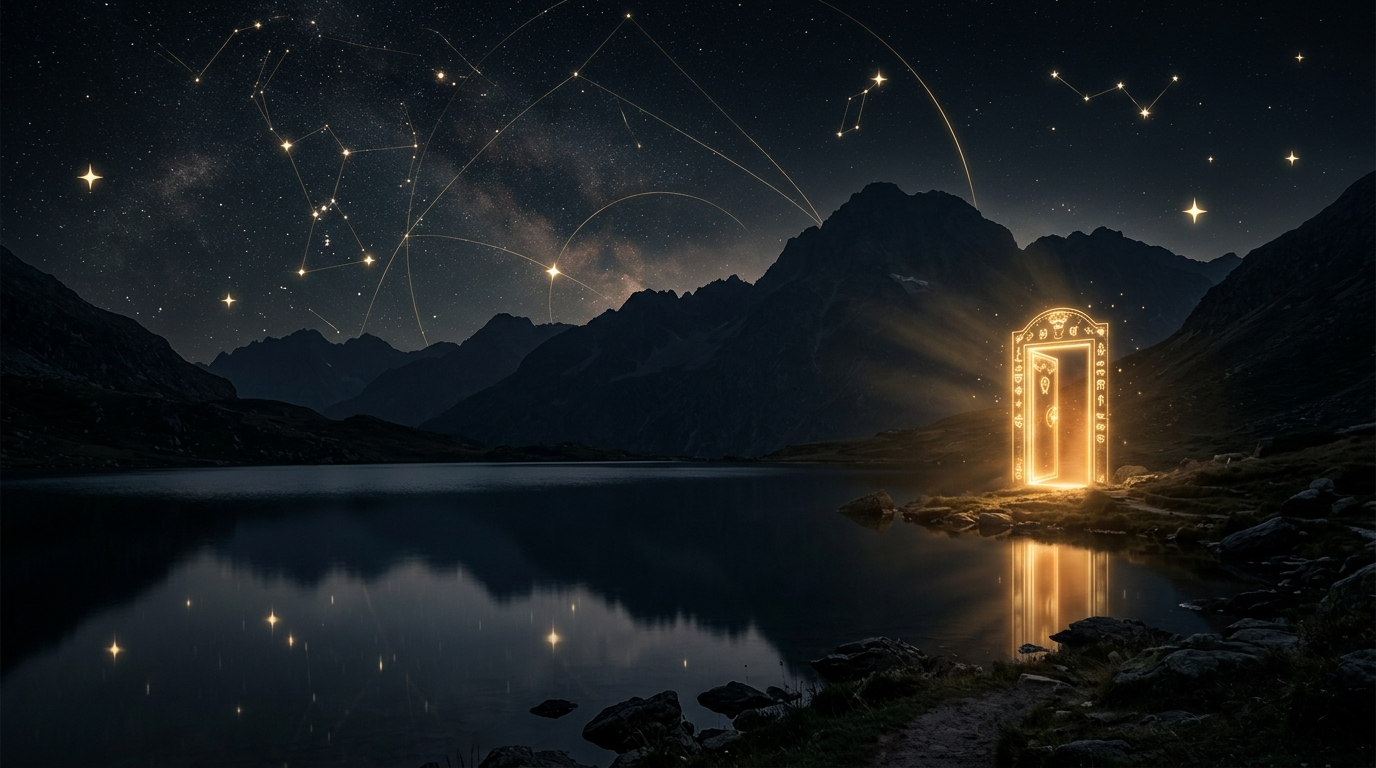
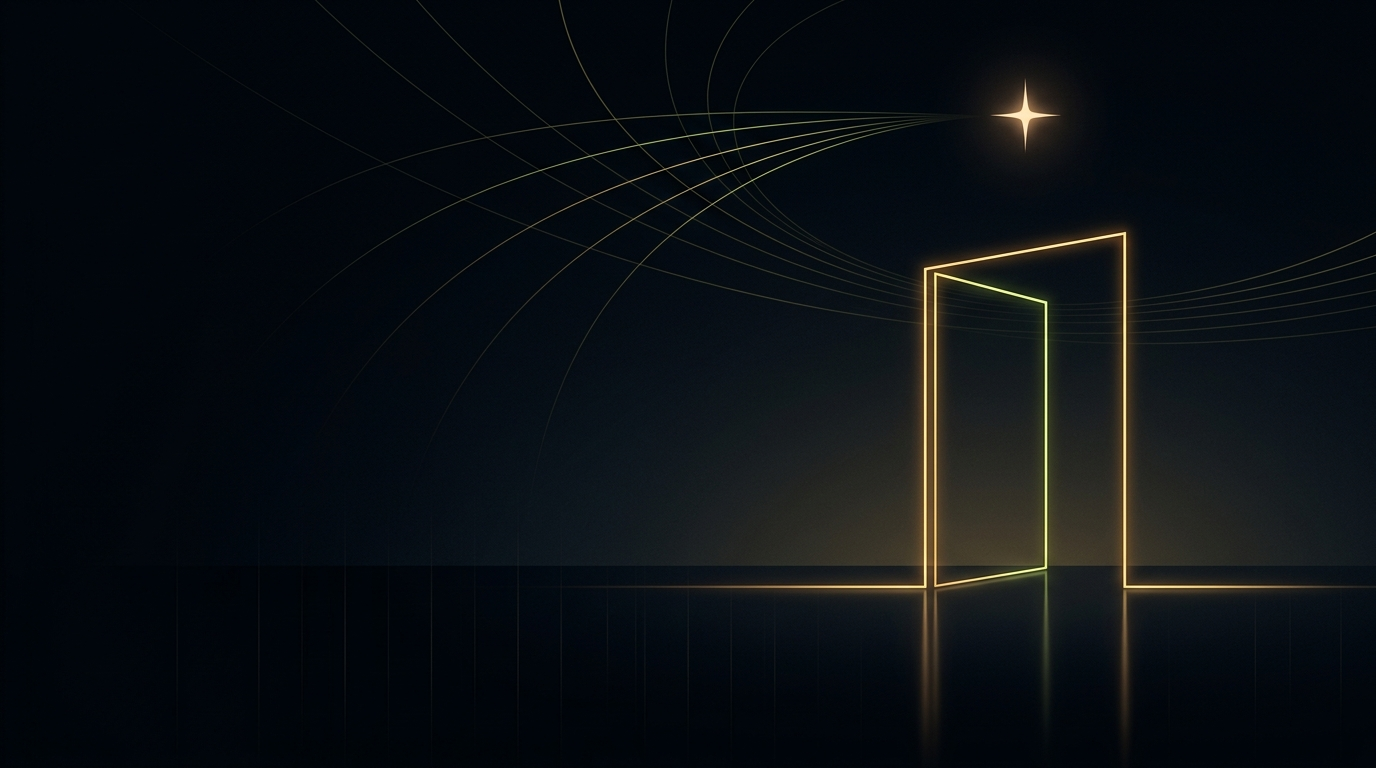
style(hero): calibrate height to 90dvh and apply ultra-minimalist Calm Power obsidian wallpaper with architectural doorway and Estrela-Guia trajectories

diff --git a/src/components/landing/HeroSection.tsx b/src/components/landing/HeroSection.tsx
@@ -11,28 +11,28 @@ export function HeroSection() {
 
   return (
     <section
-      className="relative w-full min-h-[920px] sm:min-h-[980px] lg:min-h-[1050px] flex flex-col justify-between overflow-hidden"
+      className="relative w-full min-h-[90dvh] flex flex-col justify-between overflow-hidden"
       data-purpose="hero-section"
       id="visao"
     >
-      {/* 1. Cinematic 4K Backdrop with Doorway on RIGHT and Estrela-Guia Constellations */}
+      {/* 1. Cinematic 4K Calm Power Backdrop with Modern Architectural Doorway & Estrela-Guia Trajectories */}
       <div className="absolute inset-0 pointer-events-none select-none" data-purpose="cinematic-backdrop">
         {/* Real 4K Background Image */}
         <img
           src="/trajetta-hero-bg-4k.jpg"
           alt="Trajetta Universo de Evolução"
-          className="w-full h-full object-cover object-center scale-105"
+          className="w-full h-full object-cover object-right-bottom sm:object-center"
         />
 
         {/* Soft atmospheric gradients for contrast and readability */}
-        <div className="absolute inset-0 bg-gradient-to-r from-[#060709]/95 via-[#060709]/75 to-transparent sm:via-[#060709]/50" />
-        <div className="absolute inset-0 bg-gradient-to-t from-[#060709] via-transparent to-[#060709]/80" />
+        <div className="absolute inset-0 bg-gradient-to-r from-[#060709]/95 via-[#060709]/60 to-transparent sm:via-[#060709]/30" />
+        <div className="absolute inset-0 bg-gradient-to-t from-[#060709] via-transparent to-[#060709]/60" />
         <div className="absolute inset-0 hero-bottom-fade" />
       </div>
 
-      {/* 2. Hero Content Body — Full Grand Typography from cee0f13 */}
+      {/* 2. Hero Content Body — Proportioned for 90dvh */}
       <div
-        className="relative z-30 max-w-[1440px] w-full mx-auto px-6 sm:px-10 lg:px-14 pt-32 sm:pt-40 pb-16 sm:pb-20 mt-auto"
+        className="relative z-30 max-w-[1440px] w-full mx-auto px-6 sm:px-10 lg:px-14 pt-24 sm:pt-28 lg:pt-32 pb-12 sm:pb-16 mt-auto"
         data-purpose="hero-content"
       >
         <div className="max-w-3xl">
